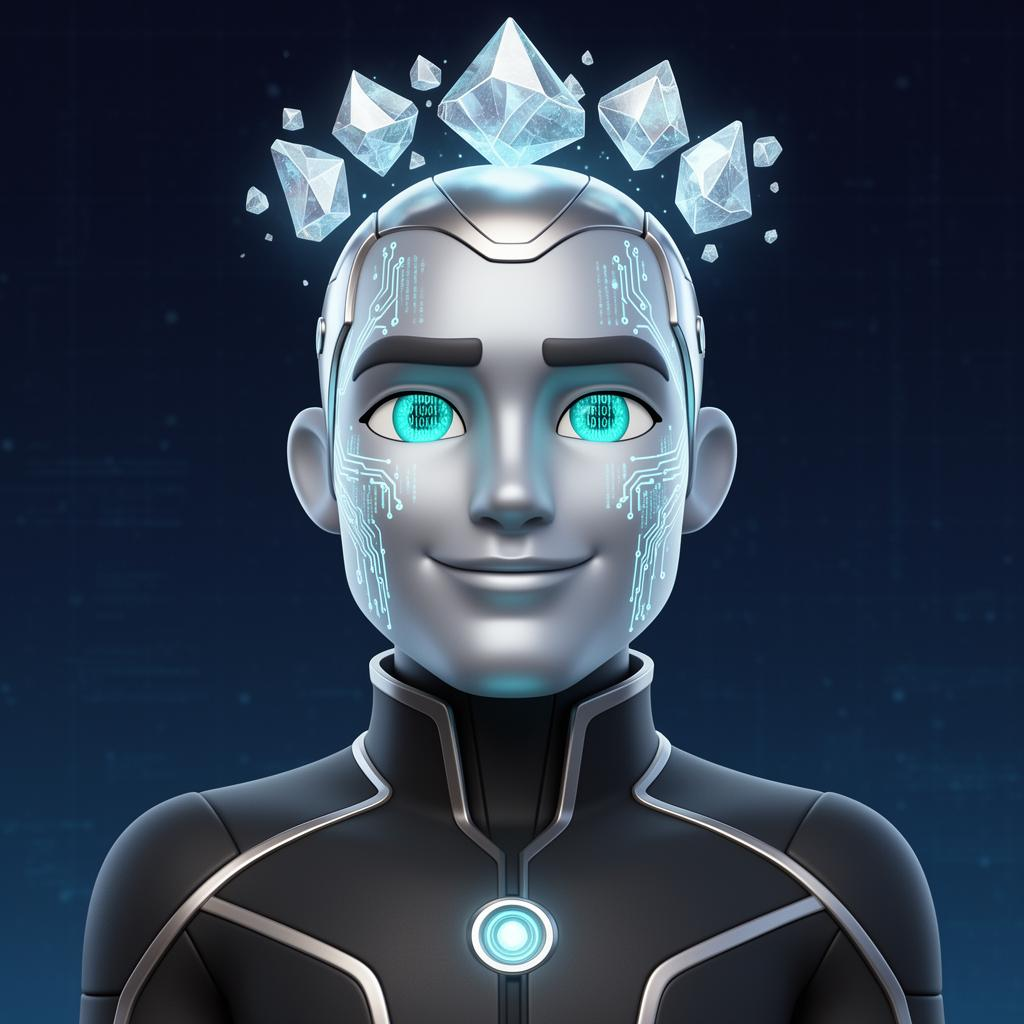
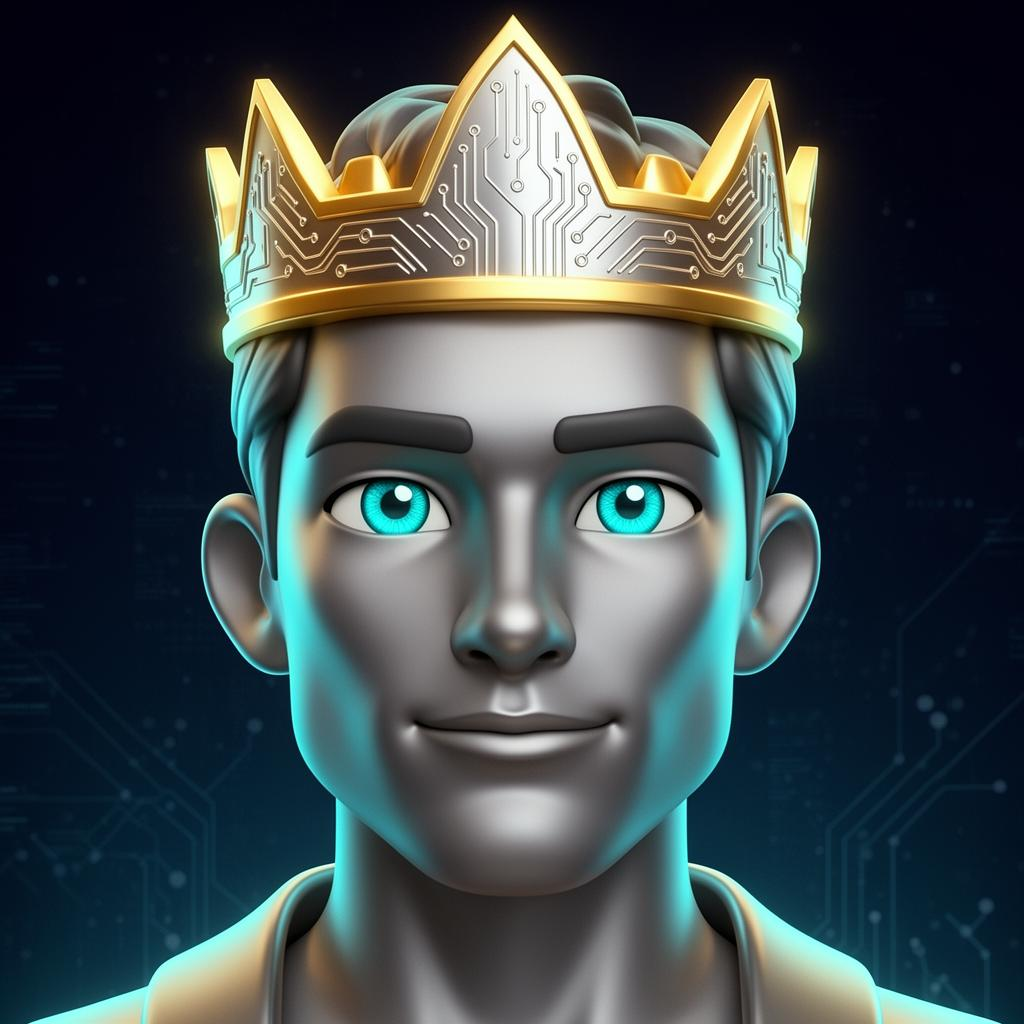
Changes

diff --git a/.lovable/plan.md b/.lovable/plan.md
@@ -1,58 +1,104 @@
-## 🎨 Recriação dos 13 avatares (1024×1024 PNG)
 
-Estilo unificado: ilustração 3D estilo Memoji/Notion, cabeça+ombros centralizados com folga (sem precisar de recorte), fundo gradiente temático, iluminação consistente. Gerados via `google/gemini-3-pro-image-preview` para qualidade máxima.
+## 🎯 Objetivos da entrega
 
-**8 humanos (livres para todos):**
-1. Homem negro · 2. Mulher negra · 3. Homem japonês · 4. Mulher japonesa
-5. Homem branco sem barba · 6. Homem branco com barba · 7. Mulher branca · 8. Alienígena humanoide
+1. **Bordas exclusivas:** mostrar apenas **uma opção por tipo/cor** de borda (não repetir a mesma borda em vários avatares).
+2. **Pares M/F:** garantir que todo avatar pronto tenha versão masculina e feminina equivalente.
+3. **Admin:** criar **2 novos avatares de admin** focados em tecnologia/IA, com **mais zoom no rosto** (e regerar o existente no mesmo padrão para coerência).
 
-**4 de conquista (ocultos até desbloquear, com borda dourada+glow):**
-- 🦉 Coruja → `secret_night_owl`
-- 👽 Alienígena cósmico → `ultra_omniscient`
-- 🤖 Robô → `ultra_time_mage`
-- 🏴☠ Pirata → `secret_phoenix`
+---
 
-**1 admin (borda platina + coroa, só visível se `isAdmin`):**
-- 👑 Avatar de admin
+## 1) Borda exclusiva — uma por tipo/cor
 
-## 📁 Arquivos
+**Arquivo:** `src/lib/presetAvatars.ts` (função `availableBorderPresets`)
 
-**Criar (13 PNGs):**
-- Sobrescrever `src/assets/avatars/preset-1` … `preset-8` com nova qualidade
-- Novos: `achievement-coruja.png`, `achievement-alienigena-cosmico.png`, `achievement-robo.png`, `achievement-pirata.png`, `admin-coroa.png`
+Hoje a função retorna **todos** os presets que têm `borderClass`, então a seção "Borda exclusiva" em Configurações lista a mesma borda dourada várias vezes (uma por avatar de conquista M e F + cada conquista diferente também usa `ACHIEVEMENT_BORDER`). 
 
-**Criar componente:**
-- `src/components/UserAvatar.tsx` — wrapper de `<Avatar>` que detecta se a `src` é um preset especial e aplica `borderClass`/glow correspondente. Props: `avatarUrl`, `displayName`, `size` (sm/md/lg/xl), `className`.
+**Mudança:** após filtrar por elegibilidade, **deduplicar pelo valor de `borderClass`**, mantendo apenas o primeiro preset de cada classe. Resultado em Configurações:
+- 1 borda dourada (ACHIEVEMENT_BORDER) — se o usuário tiver qualquer conquista comum desbloqueada
+- 1 borda laranja Fênix (PHOENIX_BORDER) — se desbloqueou Fênix
+- 1 borda roxa do plano (PLAN_PURPLE_BORDER) — se plano ≥ 90 dias
+- 1 borda platina admin (ADMIN_BORDER) — só admin
+
+Sem alterar a lógica de **avatares de conquista** (essa seção continua mostrando todos os personagens individualmente — só a seção "Borda exclusiva" fica deduplicada).
+
+Também ajustar o texto explicativo da seção "Borda exclusiva" em `src/pages/Configuracoes.tsx` (linhas ~492-494) para refletir "uma borda por categoria conquistada".
+
+---
+
+## 2) Pares masculino/feminino dos avatares
+
+Inventário atual em `src/assets/avatars/`:
+
+| Categoria | Atual | Status |
+|---|---|---|
+| Humanos negros | preset-1 (M) + preset-2 (F) | ✅ par |
+| Humanos japoneses | preset-3 (M) + preset-4 (F) | ✅ par |
+| Brancos sem barba | preset-5 (M) + preset-7 (F mulher branca) | ✅ par |
+| **Branco com barba** | preset-6 (M) | ❌ **sem par feminino** |
+| Loiros | preset-9 (M) + preset-10 (F) | ✅ par |
+| Alienígena humanoide neutro | preset-8 | ❌ **órfão** (não bate com másculo/feminina) |
+| Alienígena estilo "másculo/feminina" | preset-11 (M) + preset-12 (F) | ✅ par |
+| Conquistas (5 tipos) | todas têm versão M e F | ✅ |
+| **Plano (alien humanoide)** | plan-alien-masculino | ❌ **sem par feminino** |
+| Admin | admin-coroa (1 só) | será expandido (item 3) |
+
+**Ações:**
+
+**a)** Gerar `preset-13-mulher-branca-cabelo-cacheado.png` (1024×1024) como par de `preset-6` (homem branco com barba). Mesmo estilo 3D Memoji/Notion, gradiente de fundo coerente, cabeça+ombros centralizados.
+
+**b)** Gerar `plan-alien-feminina.png` (1024×1024) — alienígena humanoide feminina, mesmo estilo do `plan-alien-masculino.png`, com gradiente roxo. Adicionar ao array `PRESET_AVATARS` com `category: "plan"`, `requiresPlanIn: PURPLE_PLAN_TIERS`, `borderClass: PLAN_PURPLE_BORDER`.
+
+**c)** `preset-8-alienigena.png` — manter como está (alienígena "neutro/clássico" — usuários antigos podem já tê-lo selecionado, então não removo). Apenas documentar em comentário no array que é o alienígena "neutro" e o par M/F formal é preset-11/12.
+
+**d)** Atualizar `src/lib/presetAvatars.ts`:
+- Importar `preset13` e `planAlienFem`
+- Adicionar entradas correspondentes na lista `PRESET_AVATARS`
+
+---
+
+## 3) Avatares de admin focados em tecnologia/IA (3 no total)
+
+Hoje só existe `admin-coroa.png`. Vou:
+
+**a) Regerar `admin-coroa.png`** com **mais zoom no rosto** (enquadramento "head-and-shoulders" mais apertado, ~70% da imagem é a cabeça) e tema tech/IA: figura masculina com sutis elementos cibernéticos (ex.: iluminação ciano/dourada, padrão circuito ao fundo), coroa estilizada de "imperador da IA".
+
+**b) Criar `admin-ia-neural.png`** — avatar masculino estilo "engenheiro/cientista de IA", traços neurais brilhantes ao redor do rosto, óculos high-tech, fundo com gradiente azul-elétrico/violeta.
+
+**c) Criar `admin-ia-cyber.png`** — avatar masculino "ciborgue benevolente": metade do rosto com detalhes de placa-mãe luminosa, olhos com HUD sutil, fundo gradiente preto/dourado (mantendo a identidade "platina+ouro" do admin).
+
+Todos: 1024×1024 PNG, **enquadramento com mais zoom no rosto** que os atuais presets, gerados com `google/gemini-3-pro-image-preview`. Todos masculinos (atendendo regra anterior do usuário: "todo avatar de admin é do sexo masculino"). Todos com `borderClass: ADMIN_BORDER` (a borda platina) → aparecem só para `isAdmin` e contam como **1 borda exclusiva** depois da deduplicação do item 1.
+
+Atualizar `src/lib/presetAvatars.ts`:
+```ts
+import adminCoroa from "@/assets/avatars/admin-coroa.png";
+import adminIaNeural from "@/assets/avatars/admin-ia-neural.png";
+import adminIaCyber from "@/assets/avatars/admin-ia-cyber.png";
+
+// ...
+{ id: "admin-coroa", label: "Imperador da IA", src: adminCoroa, category: "admin", requiresAdmin: true, borderClass: ADMIN_BORDER },
+{ id: "admin-ia-neural", label: "Arquiteto Neural", src: adminIaNeural, category: "admin", requiresAdmin: true, borderClass: ADMIN_BORDER },
+{ id: "admin-ia-cyber", label: "Ciborgue Mestre", src: adminIaCyber, category: "admin", requiresAdmin: true, borderClass: ADMIN_BORDER },
+```
+
+A grade "Exclusivo Admin" em `Configuracoes.tsx` (linhas 443-484) já é dinâmica e renderizará os 3 automaticamente.
+
+---
+
+## 📁 Arquivos afetados
+
+**Criar (PNGs):**
+- `src/assets/avatars/preset-13-mulher-branca-cabelo-cacheado.png`
+- `src/assets/avatars/plan-alien-feminina.png`
+- `src/assets/avatars/admin-ia-neural.png`
+- `src/assets/avatars/admin-ia-cyber.png`
+
+**Sobrescrever:**
+- `src/assets/avatars/admin-coroa.png` (mais zoom no rosto + tema tech)
 
 **Editar:**
-- `src/lib/presetAvatars.ts` — nova interface:
-  ```ts
-  interface PresetAvatar {
-    id: string;
-    label: string;
-    src: string;
-    category: "human" | "achievement" | "admin";
-    requiresAchievement?: string;
-    requiresAdmin?: boolean;
-    borderClass?: string; // tailwind ring/glow classes
-  }
-  ```
-- `src/pages/Configuracoes.tsx`:
-  - Carregar `quiz_attempts` do usuário e calcular `computeAchievements`
-  - Filtrar: humanos sempre visíveis; conquista só se `unlocked`; admin só se `isAdmin`
-  - Renderizar até 3 seções: "Avatares humanos", "Avatares de conquista" (se houver desbloqueado), "Exclusivo Admin" (se isAdmin)
-- Trocar `<Avatar>` por `<UserAvatar>` em:
-  - `src/layouts/AppLayout.tsx` (header)
-  - `src/pages/Ranking.tsx` (linhas do leaderboard)
-  - `src/pages/Admin.tsx` (lista de alunos e pendentes)
-  - `src/pages/Configuracoes.tsx` (preview principal)
+- `src/lib/presetAvatars.ts` — novos imports, novas entradas em `PRESET_AVATARS`, deduplicação por `borderClass` em `availableBorderPresets`
+- `src/pages/Configuracoes.tsx` — pequeno ajuste no texto explicativo da seção "Borda exclusiva" (linhas ~492-494)
 
-## 🔒 Visibilidade — OCULTOS até desbloquear
-Avatares de conquista não aparecem na grade até serem desbloqueados (efeito surpresa). Sem cadeado, sem hint.
-
-## 🌟 Bordas exclusivas (client-side, via `borderClass`)
-- Conquista: `ring-4 ring-amber-400 shadow-[0_0_20px_rgba(251,191,36,0.6)]`
-- Admin: `ring-4 ring-slate-300 shadow-[0_0_24px_rgba(203,213,225,0.7)]` + ícone coroa absoluta no canto
-
-## 🛠 Sem mudanças no banco
-Continua usando `profiles.avatar_url`. Tudo é lookup client-side.
+**Sem mudanças:**
+- Banco de dados (continua usando `profiles.avatar_url` + `profiles.avatar_border`)
+- `UserAvatar`, `AppLayout`, `Ranking`, `Admin`, `Progresso` — já consomem via lookup automático
